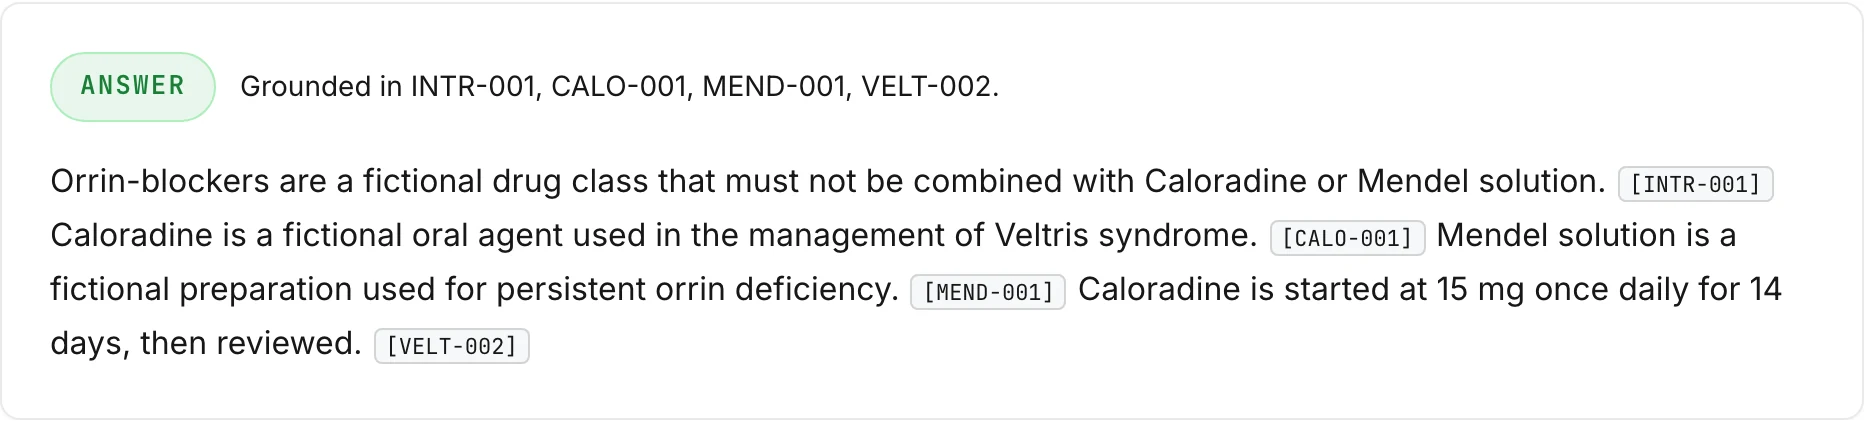
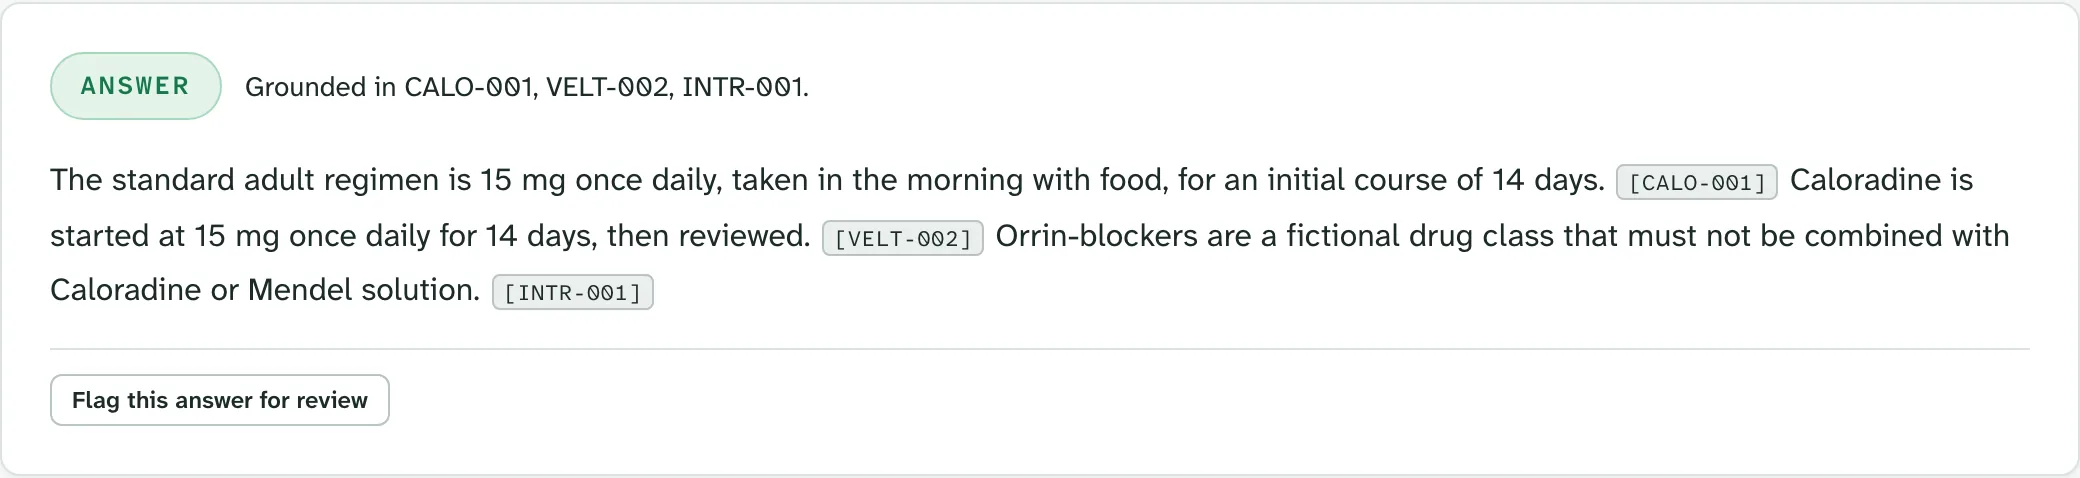
Show the redesigned app on the website, in light and dark
New screenshots of the redesigned app replace the old dashboard's, with a
dark version shown to visitors in dark mode. The tour adds review, usage,
training, the model library and data protection. README screenshots are
updated to match.

Refusals now explain patient-group, dose-limit, combination and stated-value
reasons in plain language without repeating the heading, and trace stages
use the reading typeface.

Removes stray roadmap markup that closed the list early, updates a
limitation that de-identification had made out of date, and makes the site
check fail on unbalanced tags and list items outside a list.

Changed region(s): [[0.0, 0.3389, 0.9646, 0.7393], [0.0, 0.0924, 0.529, 0.3081], [0.0, 0.7701, 0.28, 0.8934]]

diff --git a/site/public/index.html b/site/public/index.html
@@ -222,38 +222,46 @@
       <div class="wrap">
         <div class="section-intro">
           <h2 id="tour-title">Explore the dashboard</h2>
-          <p>Unedited screenshots of the app in this repository.</p>
+          <p>Unedited screenshots of the app in this repository, in light and dark mode, with synthetic data.</p>
         </div>
 
         <div class="tour" data-tour>
           <div class="tour-tabs" role="tablist" aria-label="Dashboard views" aria-orientation="vertical" hidden>
             <button class="tour-tab" type="button" role="tab" id="tour-tab-ask" aria-controls="tour-panel-ask" aria-selected="true">
               <span class="tour-tab-title">Ask a question</span>
-              <span class="tour-tab-desc">Type your own, or start from grouped examples that answer and refuse.</span>
+              <span class="tour-tab-desc">Type your own, or start from examples that answer and refuse.</span>
             </button>
             <button class="tour-tab" type="button" role="tab" id="tour-tab-answer" aria-controls="tour-panel-answer" aria-selected="false" tabindex="-1">
               <span class="tour-tab-title">Get a cited answer</span>
-              <span class="tour-tab-desc">Every claim is tagged with the ID of the source it came from.</span>
+              <span class="tour-tab-desc">Every statement is tagged with the source it came from.</span>
             </button>
             <button class="tour-tab" type="button" role="tab" id="tour-tab-refusal" aria-controls="tour-panel-refusal" aria-selected="false" tabindex="-1">
               <span class="tour-tab-title">See why it refused</span>
-              <span class="tour-tab-desc">The reason in plain language, and the exact stage that stopped the run.</span>
+              <span class="tour-tab-desc">A plain-language reason, and the exact check that stopped it.</span>
             </button>
             <button class="tour-tab" type="button" role="tab" id="tour-tab-evidence" aria-controls="tour-panel-evidence" aria-selected="false" tabindex="-1">
               <span class="tour-tab-title">Inspect the evidence</span>
-              <span class="tour-tab-desc">Retrieved passages with similarity scores, next to a trace of every stage.</span>
+              <span class="tour-tab-desc">Retrieved passages with scores, next to every stage of the run.</span>
             </button>
-            <button class="tour-tab" type="button" role="tab" id="tour-tab-tuning" aria-controls="tour-panel-tuning" aria-selected="false" tabindex="-1">
-              <span class="tour-tab-title">Tune the guards</span>
-              <span class="tour-tab-desc">Move a threshold or switch a guard off, then ask again to compare.</span>
+            <button class="tour-tab" type="button" role="tab" id="tour-tab-review" aria-controls="tour-panel-review" aria-selected="false" tabindex="-1">
+              <span class="tour-tab-title">Review refusals and flags</span>
+              <span class="tour-tab-desc">Every refusal and flagged answer becomes a case with a due date.</span>
             </button>
-            <button class="tour-tab" type="button" role="tab" id="tour-tab-corpus" aria-controls="tour-panel-corpus" aria-selected="false" tabindex="-1">
-              <span class="tour-tab-title">Explore the corpus</span>
-              <span class="tour-tab-desc">A 3D map of every document, with this question’s sources highlighted.</span>
+            <button class="tour-tab" type="button" role="tab" id="tour-tab-usage" aria-controls="tour-panel-usage" aria-selected="false" tabindex="-1">
+              <span class="tour-tab-title">See how it’s used</span>
+              <span class="tour-tab-desc">Questions, refusals, response times and what needs attention.</span>
             </button>
-            <button class="tour-tab" type="button" role="tab" id="tour-tab-audit" aria-controls="tour-panel-audit" aria-selected="false" tabindex="-1">
-              <span class="tour-tab-title">Read the audit record</span>
-              <span class="tour-tab-desc">The full record of each request, saved to an append-only log.</span>
+            <button class="tour-tab" type="button" role="tab" id="tour-tab-training" aria-controls="tour-panel-training" aria-selected="false" tabindex="-1">
+              <span class="tour-tab-title">Train on your own scans</span>
+              <span class="tour-tab-desc">Pick a folder and a GPU, then watch loss and accuracy live.</span>
+            </button>
+            <button class="tour-tab" type="button" role="tab" id="tour-tab-model" aria-controls="tour-panel-model" aria-selected="false" tabindex="-1">
+              <span class="tour-tab-title">Use a trained model</span>
+              <span class="tour-tab-desc">Accuracy per class, and it abstains when unsure.</span>
+            </button>
+            <button class="tour-tab" type="button" role="tab" id="tour-tab-protection" aria-controls="tour-panel-protection" aria-selected="false" tabindex="-1">
+              <span class="tour-tab-title">Protect the data</span>
+              <span class="tour-tab-desc">Verify the audit trail, with encryption and retention status.</span>
             </button>
             <button class="tour-tab" type="button" role="tab" id="tour-tab-evaluation" aria-controls="tour-panel-evaluation" aria-selected="false" tabindex="-1">
               <span class="tour-tab-title">Check the evaluation</span>
@@ -264,63 +272,79 @@
             <div class="tour-panel" role="tabpanel" id="tour-panel-ask" aria-labelledby="tour-tab-ask">
               <figure class="tour-figure">
               <div class="lightbox">
-                <a class="lightbox-link" href="/screenshots/overview.webp" aria-label="Open full-size screenshot"><img src="/screenshots/overview.webp" width="1280" height="820" alt="The GroundCheck dashboard: a question box with example questions grouped into core demo, more answers and more refusals." fetchpriority="low" decoding="async"></a>
+                <a class="lightbox-link" href="/screenshots/ask.webp" aria-label="Open full-size screenshot"><picture><source srcset="/screenshots/ask-dark.webp" media="(prefers-color-scheme: dark)"><img src="/screenshots/ask.webp" width="1440" height="900" fetchpriority="low" decoding="async" alt="The GroundCheck app: a sidebar of pages, and the Ask page with a question box and example questions that answer and refuse."></picture></a>
               </div>
-              <figcaption><strong>Ask a question.</strong> Type your own, or start from grouped examples that answer and refuse.</figcaption>
+              <figcaption><strong>Ask a question.</strong> Type your own, or start from examples that answer and refuse.</figcaption>
             </figure>
             </div>
             <div class="tour-panel" role="tabpanel" id="tour-panel-answer" aria-labelledby="tour-tab-answer">
               <figure class="tour-figure">
               <div class="lightbox">
-                <a class="lightbox-link" href="/screenshots/answer.webp" aria-label="Open full-size screenshot"><img src="/screenshots/answer.webp" width="932" height="211" alt="An answer about Caloradine's dose and interactions, with each sentence followed by a source ID such as CALO-001." loading="lazy" decoding="async"></a>
+                <a class="lightbox-link" href="/screenshots/answer.webp" aria-label="Open full-size screenshot"><picture><source srcset="/screenshots/answer-dark.webp" media="(prefers-color-scheme: dark)"><img src="/screenshots/answer.webp" width="1040" height="239" loading="lazy" decoding="async" alt="An answer about Caloradine's standard dose, with each sentence followed by a source ID such as CALO-001, and a button to flag the answer for review."></picture></a>
               </div>
-              <figcaption><strong>Get a cited answer.</strong> Every claim is tagged with the ID of the source it came from.</figcaption>
+              <figcaption><strong>Get a cited answer.</strong> Every statement is tagged with the source it came from.</figcaption>
             </figure>
             </div>
             <div class="tour-panel" role="tabpanel" id="tour-panel-refusal" aria-labelledby="tour-tab-refusal">
               <figure class="tour-figure">
               <div class="lightbox">
-                <a class="lightbox-link" href="/screenshots/refusal.webp" aria-label="Open full-size screenshot"><img src="/screenshots/refusal.webp" width="812" height="1027" alt="A refused question about Zalortin. The trace shows every stage passing until source coverage fails; later stages are marked not reached." loading="lazy" decoding="async"></a>
+                <a class="lightbox-link" href="/screenshots/refusal.webp" aria-label="Open full-size screenshot"><picture><source srcset="/screenshots/refusal-dark.webp" media="(prefers-color-scheme: dark)"><img src="/screenshots/refusal.webp" width="1056" height="677" loading="lazy" decoding="async" alt="A refused question about a 5-year-old. The reason says no trusted source covers children, and the pipeline trace shows the source coverage check failing."></picture></a>
               </div>
-              <figcaption><strong>See why it refused.</strong> The reason in plain language, and the exact stage that stopped the run.</figcaption>
+              <figcaption><strong>See why it refused.</strong> A plain-language reason, and the exact check that stopped it.</figcaption>
             </figure>
             </div>
             <div class="tour-panel" role="tabpanel" id="tour-panel-evidence" aria-labelledby="tour-tab-evidence">
               <figure class="tour-figure">
               <div class="lightbox">
-                <a class="lightbox-link" href="/screenshots/sources-trace.webp" aria-label="Open full-size screenshot"><img src="/screenshots/sources-trace.webp" width="932" height="1061" alt="Retrieved source cards with IDs, sections and cosine scores, beside a pipeline trace with a status and timing for each stage." loading="lazy" decoding="async"></a>
+                <a class="lightbox-link" href="/screenshots/evidence.webp" aria-label="Open full-size screenshot"><picture><source srcset="/screenshots/evidence-dark.webp" media="(prefers-color-scheme: dark)"><img src="/screenshots/evidence.webp" width="1040" height="980" loading="lazy" decoding="async" alt="Retrieved source cards with IDs, sections and similarity scores, beside a pipeline trace with a status and timing for each stage."></picture></a>
               </div>
-              <figcaption><strong>Inspect the evidence.</strong> Retrieved passages with similarity scores, next to a trace of every stage.</figcaption>
+              <figcaption><strong>Inspect the evidence.</strong> Retrieved passages with scores, next to every stage of the run.</figcaption>
             </figure>
             </div>
-            <div class="tour-panel" role="tabpanel" id="tour-panel-tuning" aria-labelledby="tour-tab-tuning">
+            <div class="tour-panel" role="tabpanel" id="tour-panel-review" aria-labelledby="tour-tab-review">
               <figure class="tour-figure">
               <div class="lightbox">
-                <a class="lightbox-link" href="/screenshots/tuning.webp" aria-label="Open full-size screenshot"><img src="/screenshots/tuning.webp" width="932" height="589" alt="The tuning panel with sliders for retrieval gate, grounding threshold, sources retrieved and temperature, and switches for each guard." loading="lazy" decoding="async"></a>
+                <a class="lightbox-link" href="/screenshots/review.webp" aria-label="Open full-size screenshot"><picture><source srcset="/screenshots/review-dark.webp" media="(prefers-color-scheme: dark)"><img src="/screenshots/review.webp" width="1440" height="900" loading="lazy" decoding="async" alt="The Review page: a queue of open cases, including a flagged answer and refusals, each with its type, how often it was asked, due date and assignee."></picture></a>
               </div>
-              <figcaption><strong>Tune the guards.</strong> Move a threshold or switch a guard off, then ask again to compare.</figcaption>
+              <figcaption><strong>Review refusals and flags.</strong> Every refusal and flagged answer becomes a case with a due date.</figcaption>
             </figure>
             </div>
-            <div class="tour-panel" role="tabpanel" id="tour-panel-corpus" aria-labelledby="tour-tab-corpus">
+            <div class="tour-panel" role="tabpanel" id="tour-panel-usage" aria-labelledby="tour-tab-usage">
               <figure class="tour-figure">
               <div class="lightbox">
-                <a class="lightbox-link" href="/screenshots/corpus-map.webp" aria-label="Open full-size screenshot"><img src="/screenshots/corpus-map.webp" width="972" height="967" alt="Corpus statistics above a 3D scatter plot of document embeddings, coloured by document type, with the four retrieved sources labelled." loading="lazy" decoding="async"></a>
+                <a class="lightbox-link" href="/screenshots/usage.webp" aria-label="Open full-size screenshot"><picture><source srcset="/screenshots/usage-dark.webp" media="(prefers-color-scheme: dark)"><img src="/screenshots/usage.webp" width="1440" height="900" loading="lazy" decoding="async" alt="The Usage page: tiles for questions, refusal rate, response time, model drafting, identifiers removed and open reviews, above a chart of questions per day."></picture></a>
               </div>
-              <figcaption><strong>Explore the corpus.</strong> A 3D map of every document, with this question’s sources highlighted.</figcaption>
+              <figcaption><strong>See how it’s used.</strong> Questions, refusals, response times and what needs attention.</figcaption>
             </figure>
             </div>
-            <div class="tour-panel" role="tabpanel" id="tour-panel-audit" aria-labelledby="tour-tab-audit">
+            <div class="tour-panel" role="tabpanel" id="tour-panel-training" aria-labelledby="tour-tab-training">
               <figure class="tour-figure">
               <div class="lightbox">
-                <a class="lightbox-link" href="/screenshots/audit.webp" aria-label="Open full-size screenshot"><img src="/screenshots/audit.webp" width="932" height="578" alt="A collapsible JSON tree of an audit record showing the decision, answer text, claims, sources, trace and settings." loading="lazy" decoding="async"></a>
+                <a class="lightbox-link" href="/screenshots/training.webp" aria-label="Open full-size screenshot"><picture><source srcset="/screenshots/training-dark.webp" media="(prefers-color-scheme: dark)"><img src="/screenshots/training.webp" width="1040" height="544" loading="lazy" decoding="async" alt="A finished training run for an abdominal CT organ classifier on the Apple GPU, with loss and accuracy charts over ten epochs."></picture></a>
               </div>
-              <figcaption><strong>Read the audit record.</strong> The full record of each request, saved to an append-only log.</figcaption>
+              <figcaption><strong>Train on your own scans.</strong> Pick a folder and a GPU, then watch loss and accuracy live.</figcaption>
+            </figure>
+            </div>
+            <div class="tour-panel" role="tabpanel" id="tour-panel-model" aria-labelledby="tour-tab-model">
+              <figure class="tour-figure">
+              <div class="lightbox">
+                <a class="lightbox-link" href="/screenshots/model.webp" aria-label="Open full-size screenshot"><picture><source srcset="/screenshots/model-dark.webp" media="(prefers-color-scheme: dark)"><img src="/screenshots/model.webp" width="860" height="864" loading="lazy" decoding="async" alt="A model card for the abdominal CT organ classifier: a CT slice classified as liver, with 96.3% accuracy on 17,778 test images and per-class figures."></picture></a>
+              </div>
+              <figcaption><strong>Use a trained model.</strong> Accuracy per class, and it abstains when unsure.</figcaption>
+            </figure>
+            </div>
+            <div class="tour-panel" role="tabpanel" id="tour-panel-protection" aria-labelledby="tour-tab-protection">
+              <figure class="tour-figure">
+              <div class="lightbox">
+                <a class="lightbox-link" href="/screenshots/protection.webp" aria-label="Open full-size screenshot"><picture><source srcset="/screenshots/protection-dark.webp" media="(prefers-color-scheme: dark)"><img src="/screenshots/protection.webp" width="1440" height="900" loading="lazy" decoding="async" alt="The Data protection page: the audit trail verified as intact and signed, AES-256-GCM encryption on, and retention periods set."></picture></a>
+              </div>
+              <figcaption><strong>Protect the data.</strong> Verify the audit trail, with encryption and retention status.</figcaption>
             </figure>
             </div>
             <div class="tour-panel" role="tabpanel" id="tour-panel-evaluation" aria-labelledby="tour-tab-evaluation">
               <figure class="tour-figure">
               <div class="lightbox">
-                <a class="lightbox-link" href="/screenshots/evaluation.webp" aria-label="Open full-size screenshot"><img src="/screenshots/evaluation.webp" width="932" height="1186" alt="Evaluation panel: 2,008 of 2,008 cases pass, a sample of cases, and 16 of 16 adversarial probes behaving as intended." loading="lazy" decoding="async"></a>
+                <a class="lightbox-link" href="/screenshots/evaluation.webp" aria-label="Open full-size screenshot"><picture><source srcset="/screenshots/evaluation-dark.webp" media="(prefers-color-scheme: dark)"><img src="/screenshots/evaluation.webp" width="1440" height="900" loading="lazy" decoding="async" alt="The Evaluation page: 2,008 of 2,008 cases pass, a sample of cases, and 16 of 16 adversarial probes behaving as intended."></picture></a>
               </div>
               <figcaption><strong>Check the evaluation.</strong> Golden-set results and adversarial probes, failures included.</figcaption>
             </figure>
@@ -520,7 +544,7 @@
         </div>
 
         <figure class="shot">
-          <img src="/screenshots/local-ai.webp" width="932" height="665" loading="lazy" decoding="async" alt="The dashboard's Local AI panel: the machine's Apple M1, 16 GB memory and Apple silicon GPU, and a list of models with fit, download size, memory needed and licence, with Llama 3.2 3B in use.">
+          <picture><source srcset="/screenshots/local-ai-dark.webp" media="(prefers-color-scheme: dark)"><img src="/screenshots/local-ai.webp" width="1040" height="1092" loading="lazy" decoding="async" alt="The Local AI page: this machine's Apple M1 with 16 GB of memory, and open-source models with how well each fits, download size and licence."></picture>
           <figcaption>The Local AI panel in the dashboard.</figcaption>
         </figure>
       </div>
@@ -596,7 +620,7 @@
           </table>
         </div>
         <figure class="shot">
-          <img src="/screenshots/corpus-map.webp" width="972" height="967" loading="lazy" decoding="async" alt="The dashboard's 3D corpus map: document embeddings coloured by type, with the four sources retrieved for a question labelled.">
+          <picture><source srcset="/screenshots/corpus-map-dark.webp" media="(prefers-color-scheme: dark)"><img src="/screenshots/corpus-map.webp" width="990" height="588" loading="lazy" decoding="async" alt="The 3D map of passage embeddings, coloured by document type, with the sources retrieved for a question labelled."></picture>
           <figcaption>The corpus map in the dashboard. Retrieved sources are labelled.</figcaption>
         </figure>
       </div>
@@ -716,7 +740,7 @@ docker run -p 7860:7860 groundcheck</code></pre>
         </div>
         <ul class="limits">
           <li><strong>Word-based coverage check</strong>Unusual phrasing can still cause a refusal.</li>
-          <li><strong>Basic PII redaction</strong>Emails and long numbers only. Not de-identification.</li>
+          <li><strong>Rule-based de-identification</strong>Catches common identifiers, not every way a person can be identified.</li>
           <li><strong>Synthetic tuning</strong>Thresholds need re-tuning for real documents.</li>
           <li><strong>Self-referential tests</strong>Answerable cases come from the corpus itself.</li>
           <li><strong>Text-layer documents only</strong>Scanned PDFs need OCR before import.</li>
@@ -785,12 +809,6 @@ docker run -p 7860:7860 groundcheck</code></pre>
                 <li>Sign-in with Argon2id-hashed passwords, lockout, and authenticator-app two-factor</li>
                 <li>Clinician, reviewer and admin roles, with every audit record tied to a user</li>
               </ul>
-            </details>
-          </li>
-                <li>Pluggable vector database: exact local search, or Qdrant at scale</li>
-                <li>Sign-in with securely hashed passwords, multi-factor authentication and session management</li>
-                <li>Clinician, reviewer and admin roles, with every audit record tied to a user</li>
-                </ul>
             </details>
           </li>
 

diff --git a/web/app.js b/web/app.js
@@ -22,10 +22,21 @@ const PIPELINE_STAGES = [
   ["decision", "Answer with citations, or refuse with a specific reason and route for review."],
 ];
 
+// Display names for pipeline stages whose internal names read awkwardly.
+const STAGE_LABELS = { "pii redaction": "De-identification" };
+
 // Plain-language explanation shown in the refusal callout, keyed by a stable
 // phrase found in the refusal reason.
 function refusalExplanation(reason) {
   const r = (reason || "").toLowerCase();
+  if (r.includes("in the question does not appear"))
+    return "The question states a value that no trusted source supports, so confirming it could be unsafe.";
+  if (r.includes("no trusted source covers"))
+    return "The question is about a patient group the sources don't cover, so an answer written for adults could be unsafe.";
+  if (r.includes("states a maximum") || r.includes("states a minimum"))
+    return "The sources give a dose but no limit, so they can't answer a question about a maximum or minimum.";
+  if (r.includes("must not be combined"))
+    return "The sources say these must not be used together, so there is no safe combined dose to give.";
   if (r.includes("not appear in any trusted source") || r.includes("do not cover"))
     return "The question names something the trusted sources never mention, so there is nothing to ground an answer on.";
   if (r.includes("no sufficiently relevant source"))
@@ -777,7 +788,7 @@ function renderTrace(steps) {
     main.className = "trace-main";
     const name = document.createElement("div");
     name.className = "trace-name";
-    name.textContent = step.name;
+    name.textContent = STAGE_LABELS[step.name] || step.name;
     const detail = document.createElement("div");
     detail.className = "trace-detail";
     detail.textContent = step.detail;

diff --git a/web/styles.css b/web/styles.css
@@ -1240,3 +1240,13 @@ body { background: var(--canvas); color: var(--text); }
 .dataset-note a, .hero-dataset a, .page-sub a, .step-sub a, .run-result a { color: var(--ink); text-decoration: underline; text-underline-offset: 0.18em; }
 .local-ai-model.fit-too-large { opacity: 1; background: var(--bg-subtle); }
 .local-ai-model.fit-too-large .local-ai-model-name { color: var(--text-faint); }
+
+/* Refusal and trace: plain language in the reading face; the reason is
+   already in the heading, so it isn't repeated in the box. */
+.refuse-callout p { font-family: var(--font-sans); font-size: 15px; }
+#refuse-detail { display: none; }
+.refuse-callout { background: color-mix(in srgb, var(--danger-bg) 70%, var(--bg)); }
+.refuse-callout .eyebrow { color: var(--danger); }
+.trace-name { font-family: var(--font-sans); font-size: 14px; font-weight: 600; }
+.trace-name::first-letter { text-transform: uppercase; }
+.decision-reason::first-letter { text-transform: uppercase; }

diff --git a/README.md b/README.md
@@ -36,7 +36,7 @@ not sure is safer than one that always answers.**
 > regulator. All demo data is synthetic: every condition, medication, lab
 > marker, dosage, and procedure is fictional.
 
-![The GroundCheck dashboard](site/public/screenshots/overview.webp)
+![The GroundCheck app: a sidebar of pages and the Ask page](site/public/screenshots/ask.webp)
 
 ---
 
@@ -125,36 +125,40 @@ break on stage.
 
 ## Screenshots
 
-These are unedited screenshots of the dashboard running locally in extractive
-mode (no API key).
+Unedited screenshots of the app running locally, with synthetic data. The app
+has light and dark themes.
 
 **A cited answer.** Every claim is tagged with the source it came from.
 
 ![An answer with source citations](site/public/screenshots/answer.webp)
 
-**A refusal, with its reason.** The trace shows exactly which stage stopped the
-run; later stages are marked not reached.
+**A refusal, with its reason.** The trace shows exactly which check stopped the
+run.
 
 ![A refused question and its pipeline trace](site/public/screenshots/refusal.webp)
 
 <details>
-<summary>More screenshots: evidence, tuning, corpus map, audit record, evaluation</summary>
+<summary>More screenshots: review, usage, training, model library, data protection, evaluation</summary>
 
-**Retrieved sources and the pipeline trace**
+**Review queue**
 
-![Retrieved sources with similarity scores beside the pipeline trace](site/public/screenshots/sources-trace.webp)
+![Refusals and flagged answers waiting for review](site/public/screenshots/review.webp)
 
-**Tuning panel**
+**Usage**
 
-![Sliders for thresholds and switches for each guard](site/public/screenshots/tuning.webp)
+![Questions per day, refusal rate and response times](site/public/screenshots/usage.webp)
 
-**Corpus map**
+**Training a model on CT scans**
 
-![A 3D map of document embeddings with retrieved sources highlighted](site/public/screenshots/corpus-map.webp)
+![Live loss and accuracy while training an abdominal CT organ classifier](site/public/screenshots/training.webp)
 
-**Audit record**
+**A trained model, tried on an image**
 
-![A collapsible JSON audit record](site/public/screenshots/audit.webp)
+![A model card with per-class accuracy and a CT slice classified as liver](site/public/screenshots/model.webp)
+
+**Data protection, in dark mode**
+
+![The audit trail verified, with encryption and retention status](site/public/screenshots/protection-dark.webp)
 
 **Evaluation**
 
